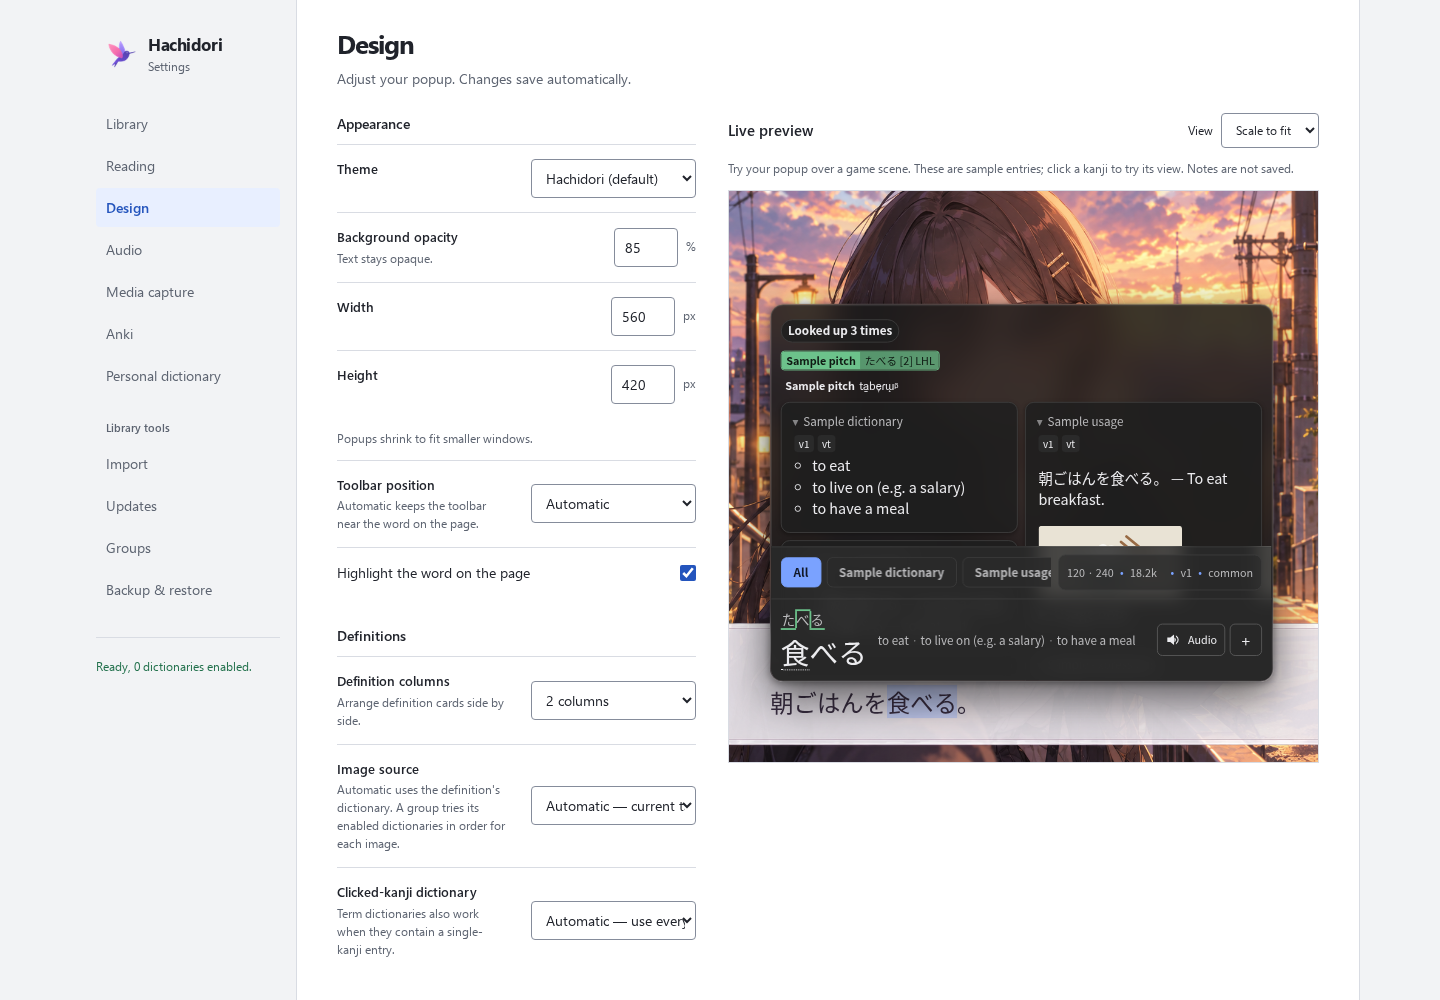
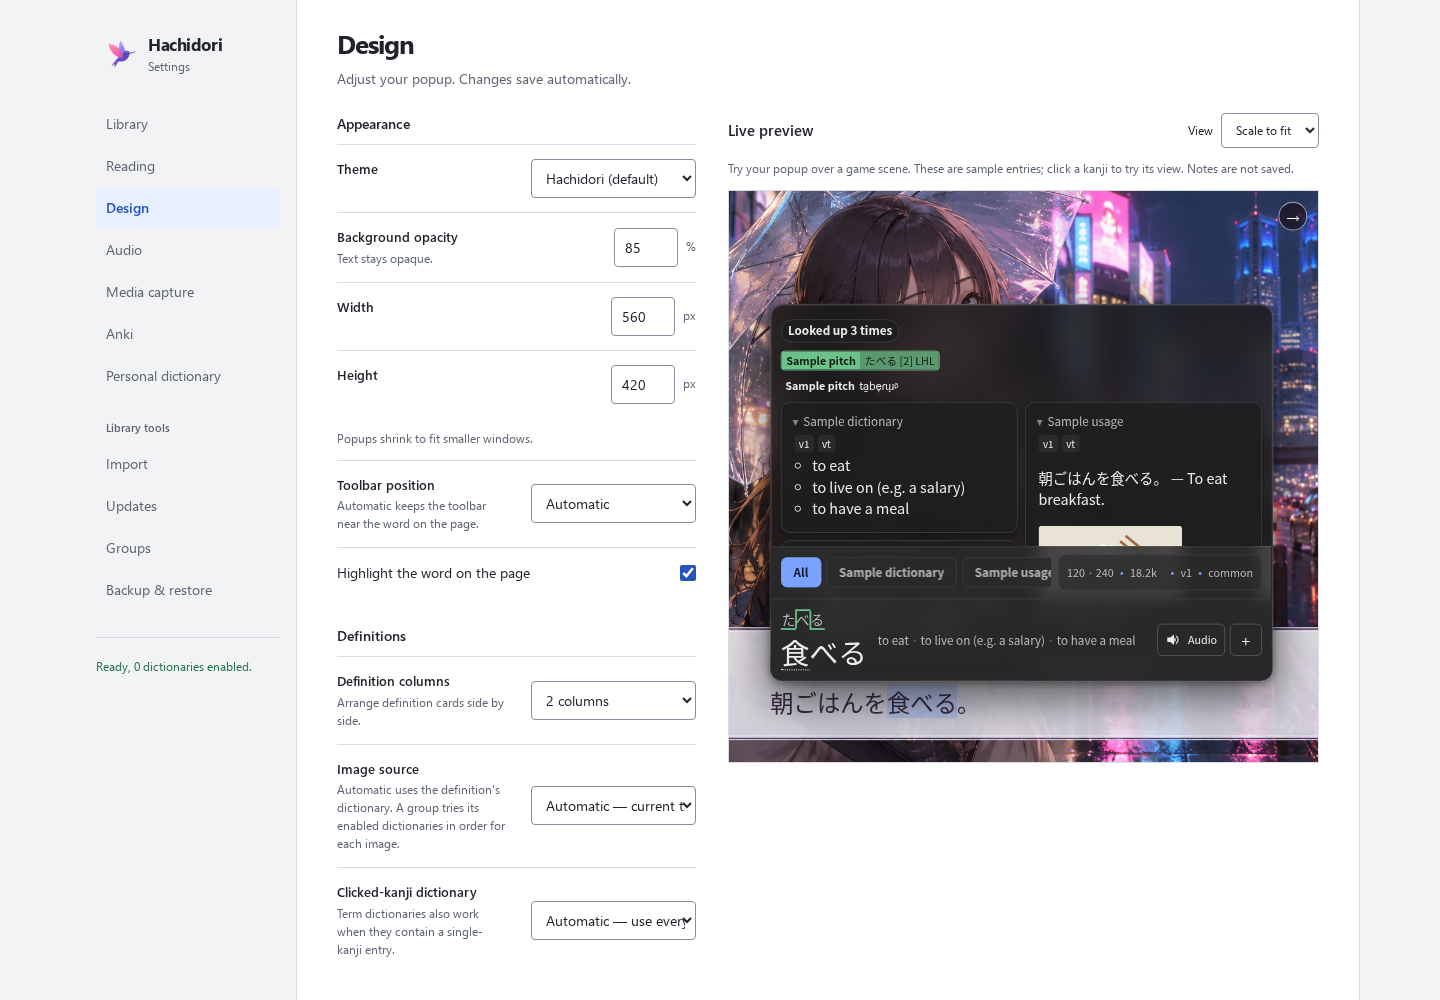
Document scene rotation and refresh its Chrome screenshots

Changed region(s): [[0.5, 0.186, 0.9375, 0.651], [0.5, 0.713, 0.9375, 0.775], [0.6875, 0.341, 0.75, 0.372]]

diff --git a/README.md b/README.md
@@ -100,9 +100,9 @@ The assets used are AI generated. If you are an artist and want to contribute to
 
 ## Credits
 
-The logo pack and visual novel background were supplied by bee-san. See the
+The logo pack and six visual novel backgrounds were supplied by bee-san. See the
 [asset ownership and publishing record](docs/asset-rights.md) for the original
-assets and the background's copyright declaration.
+assets and their copyright declaration.
 
 Hachidori is powered by [hoshidicts](https://github.com/Manhhao/hoshidicts) by Manhhao. Its popup renderer, structured-content renderer, furigana segmentation, and CSS are ported from [GameSentenceMiner PR #549](https://github.com/bpwhelan/GameSentenceMiner/pull/549), which adapts [Hoshi Reader](https://github.com/Manhhao/Hoshi-Reader) and [Yomitan](https://github.com/yomidevs/yomitan). See the full [renderer attribution](extension/render/ATTRIBUTION.md).
 

diff --git a/docs/architecture.md b/docs/architecture.md
@@ -350,7 +350,7 @@ The card shows the instruction that matches the current `lookupMode` — hover, 
 holding the configured activation key — and one sentence to try,
 **朝ごはんを食べる。** The sentence sits in the dialogue panel of the
 repository owner's visual novel artwork. The scene and Design preview share
-`visual-novel.css` and the packaged, unchanged image; its source and copyright
+`visual-novel.css` and the packaged, unchanged images; their sources and copyright
 declaration are recorded in [asset ownership](asset-rights.md). The
 shared `visual-novel.js` picks one of six local images at random when each
 scene is created. A small **Next background** arrow cycles through them and

diff --git a/docs/chrome-web-store.md b/docs/chrome-web-store.md
@@ -256,6 +256,11 @@ Prepare these [required store images](https://developer.chrome.com/docs/webstore
   references, but must not be assumed to meet store dimensions.
 - An optional **1400 × 560 marquee image** if desired.
 
+The [asset ownership record](asset-rights.md) documents the supplied Hachidori
+logo pack and all six visual novel backgrounds, including the owner's copyright
+declaration, original filenames and image checksums. Use it as the artwork
+reference for the package and publishing screenshots.
+
 ### 5. Upload and complete review information
 
 In the dashboard, choose **Add new item**, upload the ZIP, and complete Store
